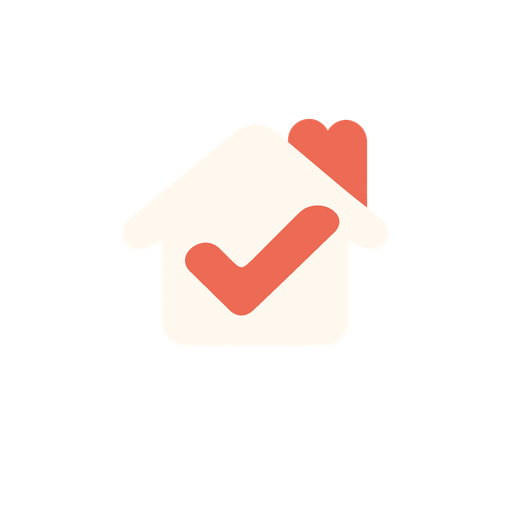
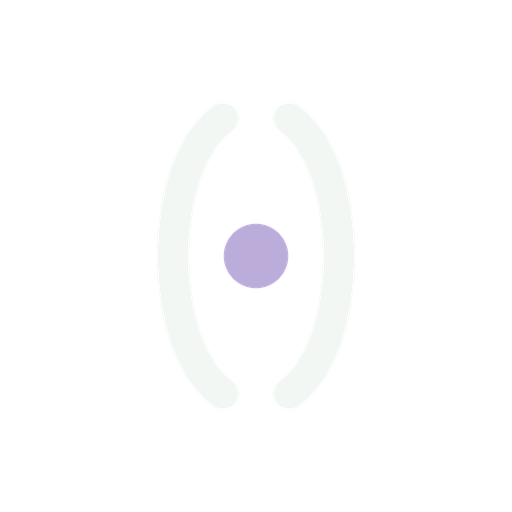
fix: refresh mobile brand assets

Changed region(s): [[0.3438, 0.375, 0.6875, 0.625], [0.5625, 0.2188, 0.7188, 0.4062]]

diff --git a/mobile/app.config.ts b/mobile/app.config.ts
@@ -22,7 +22,19 @@ const config: ExpoConfig = {
     predictiveBackGestureEnabled: false,
   },
 
-  plugins: ['expo-router', 'expo-status-bar'],
+  plugins: [
+    'expo-router',
+    'expo-status-bar',
+    [
+      'expo-splash-screen',
+      {
+        image: './assets/splash-icon.png',
+        imageWidth: 200,
+        resizeMode: 'contain',
+        backgroundColor: '#123D34',
+      },
+    ],
+  ],
 };
 
 export default config;

diff --git a/mobile/scripts/generate-brand-assets.py b/mobile/scripts/generate-brand-assets.py
@@ -1,0 +1,196 @@
+#!/usr/bin/env python3
+"""Regenerate the Homely launcher / splash / favicon PNGs from canonical geometry.
+
+Why this exists
+---------------
+`android/` is generated (git-ignored) and the raster assets under `assets/` were
+authored before the abstract brandmark landed. This script rasterises the *same*
+geometry declared in `src/design/brandmark-shape.ts` (two mirrored strokes plus a
+central core) so the committed PNGs can never drift back to the old literal house.
+
+Reproducibility
+---------------
+The script parses `src/design/brandmark-shape.ts` at run time — no geometry is
+duplicated here. It only needs Python + Pillow (both available locally):
+
+    python scripts/generate-brand-assets.py
+
+Colours come from the design tokens in `src/design/tokens.ts`:
+  - background `#123D34`  = light-theme `primary`
+  - strokes    `#F2F7F4`  = light-theme `textOnPrimary`
+  - core       `#BCACDA`  = dark-theme `accent` (the lilac token that stays
+    legible on the deep petrol background; the light-theme `#7E6FA0` only
+    reaches ~2.7:1 contrast against `#123D34`).
+"""
+
+from __future__ import annotations
+
+import re
+from pathlib import Path
+
+from PIL import Image, ImageDraw
+
+MOBILE_ROOT = Path(__file__).resolve().parent.parent
+ASSETS_DIR = MOBILE_ROOT / "assets"
+SHAPE_SOURCE = MOBILE_ROOT / "src" / "design" / "brandmark-shape.ts"
+
+BACKGROUND = (0x12, 0x3D, 0x34, 255)
+STROKE = (0xF2, 0xF7, 0xF4, 255)
+CORE = (0xBC, 0xAC, 0xDA, 255)
+
+# Supersampling factor used to obtain smooth anti-aliased edges from Pillow's
+# non-AA drawing primitives before downscaling with Lanczos.
+SUPERSAMPLE = 4
+CURVE_SEGMENTS = 96
+
+
+def _read_shape() -> dict:
+    """Extract the canonical geometry from the TypeScript source of truth."""
+    source = SHAPE_SOURCE.read_text(encoding="utf-8")
+
+    def grab(pattern: str) -> str:
+        match = re.search(pattern, source)
+        if match is None:
+            raise SystemExit(f"Could not find {pattern!r} in {SHAPE_SOURCE}")
+        return match.group(1)
+
+    size = float(grab(r"BRANDMARK_SIZE\s*=\s*([0-9.]+)"))
+    return {
+        "size": size,
+        "left": grab(r"left:\s*'([^']+)'"),
+        "right": grab(r"right:\s*'([^']+)'"),
+        "stroke_width": float(grab(r"BRANDMARK_STROKE_WIDTH\s*=\s*([0-9.]+)")),
+        "core_r": float(grab(r"r:\s*([0-9.]+)")),
+        "core_cx": size / 2.0,
+        "core_cy": size / 2.0,
+    }
+
+
+def _flatten_path(d: str) -> list[tuple[float, float]]:
+    """Flatten the absolute M/C commands used by the brandmark into a polyline."""
+    tokens = re.findall(r"[MC]|-?\d+(?:\.\d+)?", d)
+    points: list[tuple[float, float]] = []
+    current: tuple[float, float] | None = None
+    index = 0
+
+    while index < len(tokens):
+        command = tokens[index]
+        if command == "M":
+            x, y = float(tokens[index + 1]), float(tokens[index + 2])
+            current = (x, y)
+            points.append(current)
+            index += 3
+        elif command == "C":
+            x0, y0 = current  # type: ignore[misc]
+            x1, y1, x2, y2, x3, y3 = (float(value) for value in tokens[index + 1 : index + 7])
+            for step in range(1, CURVE_SEGMENTS + 1):
+                t = step / CURVE_SEGMENTS
+                mt = 1 - t
+                px = (
+                    mt**3 * x0
+                    + 3 * mt**2 * t * x1
+                    + 3 * mt * t**2 * x2
+                    + t**3 * x3
+                )
+                py = (
+                    mt**3 * y0
+                    + 3 * mt**2 * t * y1
+                    + 3 * mt * t**2 * y2
+                    + t**3 * y3
+                )
+                points.append((px, py))
+            current = (x3, y3)
+            index += 7
+        else:  # pragma: no cover - defensive, geometry only uses M/C
+            raise SystemExit(f"Unsupported SVG command {command!r} in {d!r}")
+
+    return points
+
+
+def _render_mark(
+    canvas: int,
+    *,
+    background: tuple[int, int, int, int] | None,
+    stroke: tuple[int, int, int, int],
+    core: tuple[int, int, int, int],
+    ink_fraction: float,
+    shape: dict,
+) -> Image.Image:
+    """Render the brandmark centred on a `canvas` square.
+
+    `ink_fraction` is the share of the canvas the mark's larger ink dimension
+    should occupy, which keeps the art inside Android's adaptive-icon safe zone.
+    """
+    big = canvas * SUPERSAMPLE
+    base = background if background is not None else (0, 0, 0, 0)
+    image = Image.new("RGBA", (big, big), base)
+    draw = ImageDraw.Draw(image)
+
+    left = _flatten_path(shape["left"])
+    right = _flatten_path(shape["right"])
+    half_stroke = shape["stroke_width"] / 2
+    ink = left + right
+
+    min_x = min(point[0] for point in ink) - half_stroke
+    max_x = max(point[0] for point in ink) + half_stroke
+    min_y = min(point[1] for point in ink) - half_stroke
+    max_y = max(point[1] for point in ink) + half_stroke
+    ink_w, ink_h = max_x - min_x, max_y - min_y
+
+    scale = ink_fraction * big / max(ink_w, ink_h)
+    mid_x, mid_y = (min_x + max_x) / 2, (min_y + max_y) / 2
+
+    def to_px(point: tuple[float, float]) -> tuple[float, float]:
+        return (big / 2 + (point[0] - mid_x) * scale, big / 2 + (point[1] - mid_y) * scale)
+
+    line_width = max(1, round(shape["stroke_width"] * scale))
+    radius = line_width / 2
+
+    # Stamp a disc at every flattened point. The discs overlap heavily, so the
+    # union is a solid stroke with round caps and no polyline-joint seams.
+    for path in (left, right):
+        for point in path:
+            x, y = to_px(point)
+            draw.ellipse([x - radius, y - radius, x + radius, y + radius], fill=stroke)
+
+    core_x, core_y = to_px((shape["core_cx"], shape["core_cy"]))
+    core_radius = shape["core_r"] * scale
+    draw.ellipse(
+        [core_x - core_radius, core_y - core_radius, core_x + core_radius, core_y + core_radius],
+        fill=core,
+    )
+
+    return image.resize((canvas, canvas), Image.Resampling.LANCZOS)
+
+
+def main() -> None:
+    shape = _read_shape()
+    ASSETS_DIR.mkdir(parents=True, exist_ok=True)
+
+    opaque = dict(background=BACKGROUND, stroke=STROKE, core=CORE)
+    transparent = dict(background=None, stroke=STROKE, core=CORE)
+    monochrome = dict(background=None, stroke=(255, 255, 255, 255), core=(255, 255, 255, 255))
+
+    outputs = [
+        # (filename, canvas, options, ink_fraction)
+        ("icon.png", 1024, opaque, 0.62),
+        ("splash-icon.png", 1024, transparent, 0.72),
+        ("favicon.png", 48, opaque, 0.66),
+        ("android-icon-foreground.png", 512, transparent, 0.60),
+        ("android-icon-monochrome.png", 432, monochrome, 0.60),
+    ]
+
+    for name, canvas, options, fraction in outputs:
+        _render_mark(canvas, ink_fraction=fraction, shape=shape, **options).save(
+            ASSETS_DIR / name
+        )
+        print(f"wrote {name} ({canvas}x{canvas})")
+
+    # The adaptive background layer is the flat brand colour; Android tints the
+    # foreground/monochrome layers on top of it.
+    Image.new("RGBA", (512, 512), BACKGROUND).save(ASSETS_DIR / "android-icon-background.png")
+    print("wrote android-icon-background.png (512x512)")
+
+
+if __name__ == "__main__":
+    main()
